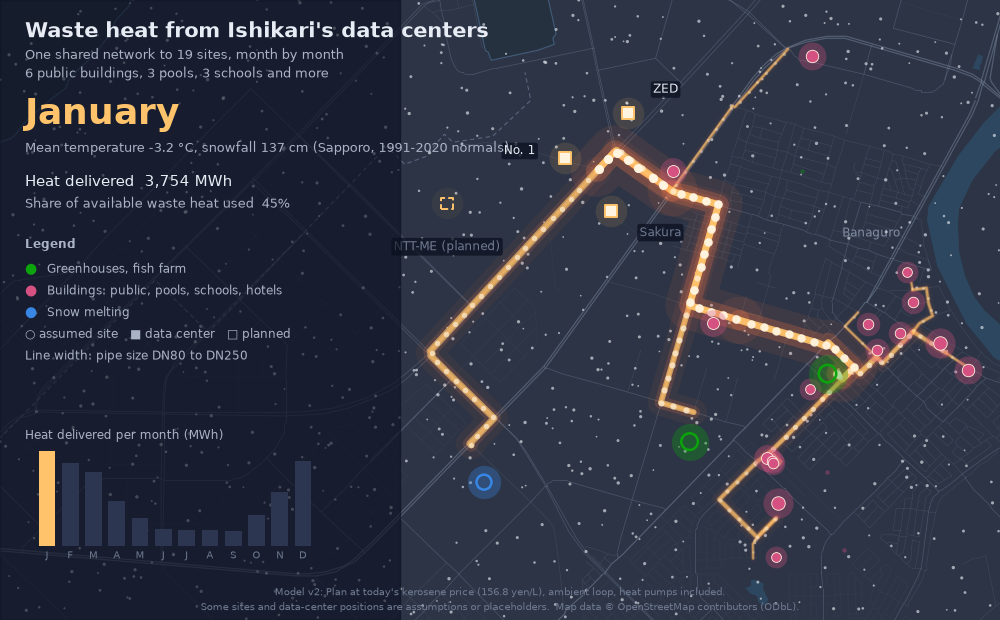
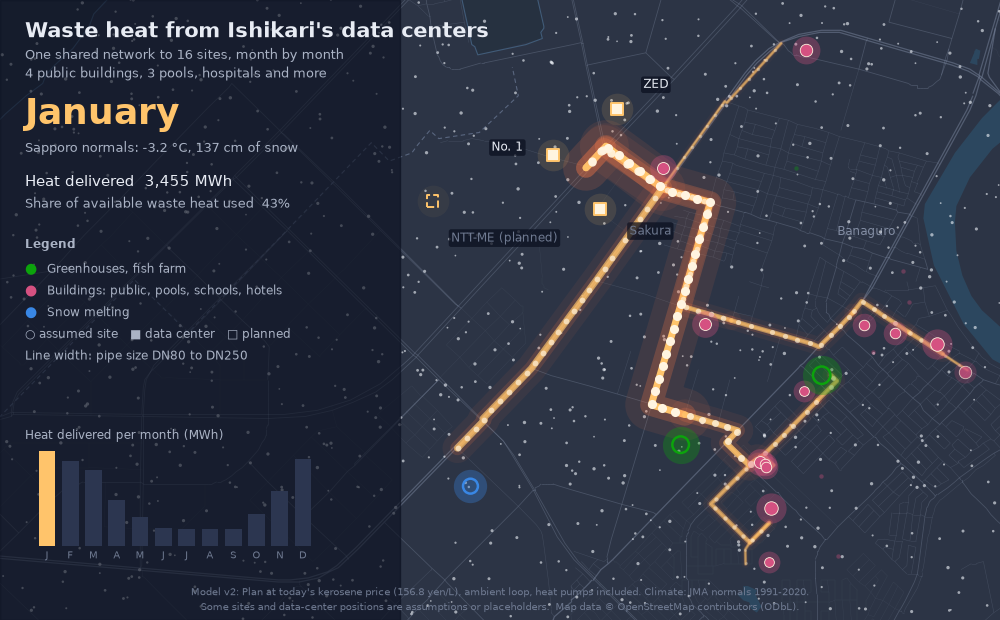
Animation: shorter climate line and NTT-ME label clear of the text panel
- The month's climate line no longer runs into the No. 1 label; the
  source (JMA normals 1991-2020) moves to the footer
- NTT-ME's label sits right of its marker, outside the text panel
- README alt text: 16 sites, as in the current animation

diff --git a/scripts/render_readme_animation.py b/scripts/render_readme_animation.py
@@ -42,7 +42,7 @@ GROUP_LABEL = {"farm": "Greenhouses, fish farm", "building": "Buildings: public,
 DN_WIDTH = {50: 1.8, 80: 2.2, 100: 2.6, 150: 3.4, 200: 4.2, 250: 5.0}
 # Label offsets in km from each data center, chosen so the four labels do not overlap.
 LABEL_AT = {"zed": (0.14, 0.13, "left"), "isrd1": (-0.16, 0.04, "right"), "sakura": (0.16, -0.12, "left"),
-            "nttme": (0.0, -0.24, "center")}
+            "nttme": (0.10, -0.20, "left")}
 KIND_WORDS = {"public": ("a public building", "public buildings"), "hotel": ("a hotel", "hotels"),
               "factory": ("a factory", "factories"), "pool": ("a pool", "pools"), "school": ("a school", "schools"), "hospital": ("a hospital", "hospitals"),
               "onsen": ("a bath", "baths"), "aquaculture": ("a fish farm", "fish farms"),
@@ -273,8 +273,8 @@ def main() -> None:
         if rest:
             fig.text(tx, 0.875, rest[0].upper() + rest[1:], color=C["ink2"], fontsize=9.5)
         fig.text(tx, 0.80, MONTHS_LONG[m], color=C["heat"], fontsize=26, weight="bold")
-        fig.text(tx, 0.755, f"Mean temperature {data['temp'][m]:+.1f} °C, snowfall {SNOW[m]} cm "
-                 "(Sapporo, 1991-2020 normals)", color=C["ink2"], fontsize=9)
+        fig.text(tx, 0.755, f"Sapporo normals: {data['temp'][m]:+.1f} °C, {SNOW[m]} cm of snow",
+                 color=C["ink2"], fontsize=9)
         fig.text(tx, 0.70, f"Heat delivered  {delivered[m]:,.0f} MWh", color=C["ink"], fontsize=11)
         used = delivered[m] / waste[m] if waste[m] else 0
         fig.text(tx, 0.665, f"Share of available waste heat used  {used:.0%}", color=C["ink2"], fontsize=9.5)
@@ -304,7 +304,8 @@ def main() -> None:
         fig.text(lx, yy, "○ assumed site   ■ data center   □ planned", color=C["ink2"], fontsize=8.5)
         fig.text(lx, yy - 0.035, "Line width: pipe size DN80 to DN250", color=C["ink2"], fontsize=8.5)
 
-        fig.text(0.5, 0.04, f"Model v2: {plan['label']}, heat pumps included.", color=C["muted"], fontsize=7.5,
+        fig.text(0.5, 0.04, f"Model v2: {plan['label']}, heat pumps included. Climate: JMA normals 1991-2020.",
+                 color=C["muted"], fontsize=7.5,
                  ha="center")
         fig.text(0.5, 0.016, "Some sites and data-center positions are assumptions or placeholders.  "
                  "Map data © OpenStreetMap contributors (ODbL).",

diff --git a/README.ja.md b/README.ja.md
@@ -4,7 +4,7 @@
 
 [English](README.md)
 
-![石狩の2つのデータセンターの排熱が、月ごとに19か所へ流れる様子](docs/img/heat-network-map.gif)
+![石狩の2つのデータセンターの排熱が、月ごとに16か所へ流れる様子](docs/img/heat-network-map.gif)
 
 *改良版モデル（v2）で、今の灯油価格（156.8円/L [11]）・ヒートポンプ費込みの計画です。1本の共同の導管網で、石狩湾新港の2つのデータセンターの排熱を19か所（公共施設、プール、学校、ホテル、病院、陸上養殖、温室の新設候補、道路融雪）に届けます。線の太さは管の太さ、明るさと粒の速さは月ごとの流量を表し、雪の多い月には雪が降ります。下の棒グラフは月ごとに届けた熱です。施設とデータセンターの位置には、仮定や仮置きのものが含まれます（[データと出典](#データと出典)）。地図データ © OpenStreetMap contributors（ODbL）。*
 

diff --git a/README.md b/README.md
@@ -4,7 +4,7 @@
 
 [日本語版 / Japanese](README.ja.md)
 
-![Waste heat flowing from two Ishikari data centers to 19 sites, month by month](docs/img/heat-network-map.gif)
+![Waste heat flowing from two Ishikari data centers to 16 sites, month by month](docs/img/heat-network-map.gif)
 
 *Model v2 at today's kerosene price (156.8 yen/L [11]), heat pumps included. One shared network carries waste heat from two data centers in the Ishikari Bay New Port to 19 sites: public buildings, pools, schools, hotels, hospitals, a fish farm, a new greenhouse site and road heating. Line width shows the pipe size; brightness and particle speed show each month's flow, and snow falls in the snowy months. The bars show the heat delivered each month. Several sites and data-center positions are assumptions or placeholders ([Data and sources](#data-and-sources)). Map data © OpenStreetMap contributors (ODbL).*
 
